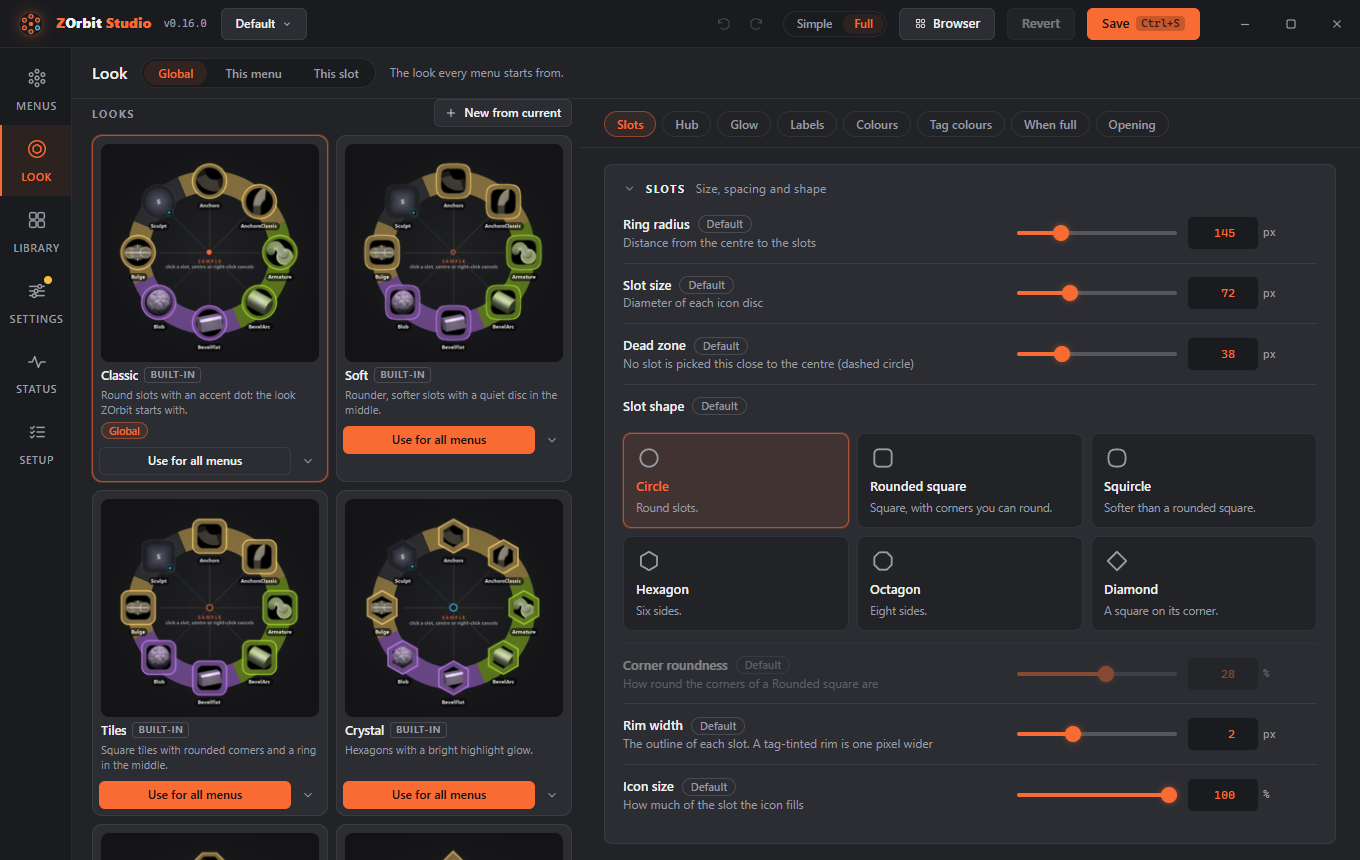
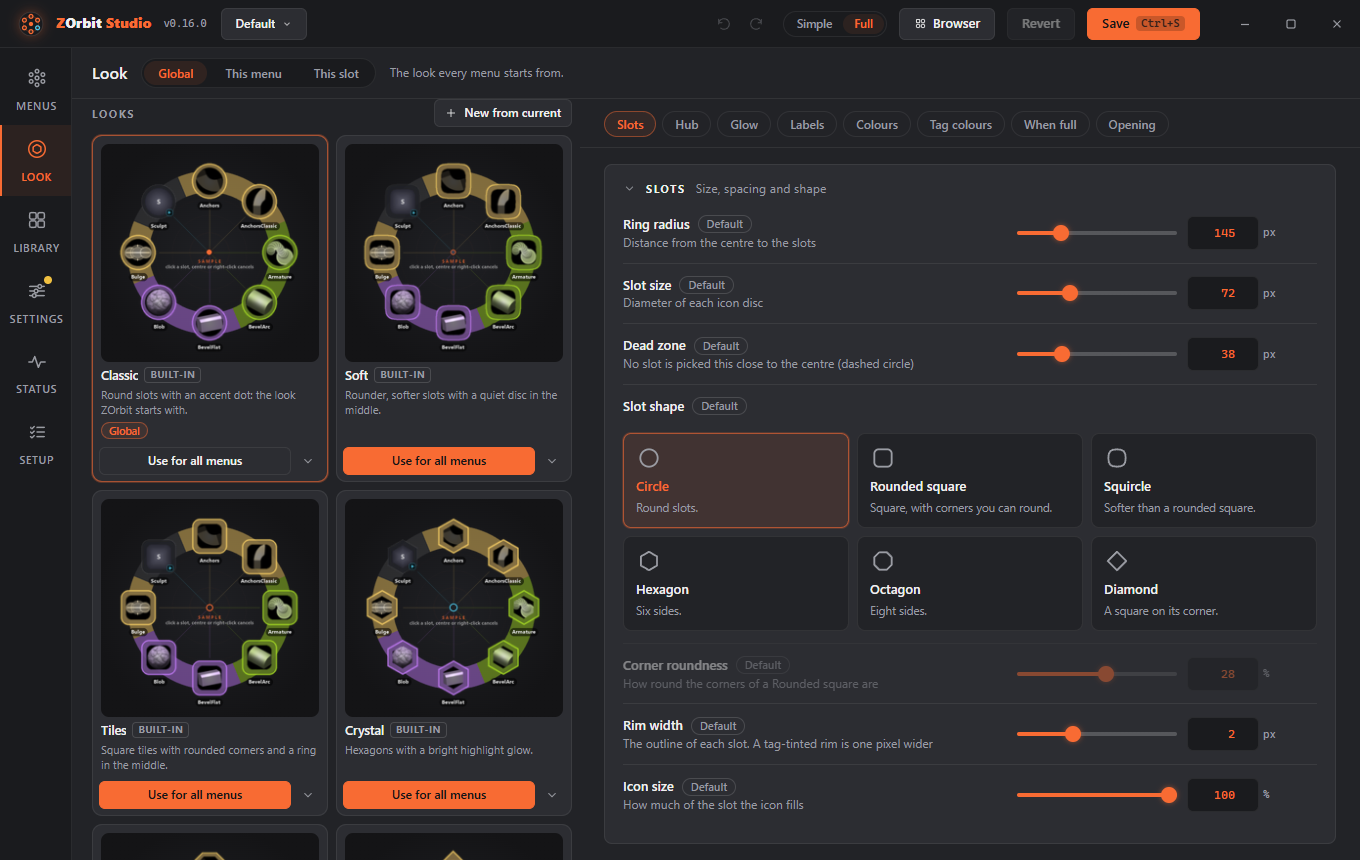
Studio: line up the buttons under the looks (#122) (#123)
The foot of each look card now sits at the bottom of the card, so the
buttons share a baseline in each row. The Look gallery picture is retaken.

Fixes #122

Changed region(s): [[0.2471, 0.4837, 0.4015, 0.5744]]

diff --git a/zorbit/studio_ui/styles.css b/zorbit/studio_ui/styles.css
@@ -1136,7 +1136,7 @@ body.dragging .irow:hover { background: transparent; }
 .lk-chipline { display: flex; flex-wrap: wrap; gap: 4px; }
 .lk-mark { height: 17px; padding: 0 7px; border-radius: 99px; font: 600 10.5px/17px var(--font); border: 1px solid var(--line2); color: var(--sub); }
 .lk-mark.glob, .lk-mark.menu, .lk-mark.edit { color: var(--accent); border-color: color-mix(in srgb, var(--accent) 45%, transparent); background: var(--accent-wash); }
-.lk-foot { display: flex; align-items: center; gap: 4px; }
+.lk-foot { display: flex; align-items: center; gap: 4px; margin-top: auto; }
 .lk-foot .btn { flex: 1; min-width: 0; overflow: hidden; text-overflow: ellipsis; }
 .lk-checks { display: flex; flex-direction: column; gap: 10px; margin-top: 4px; }
 .lk-check { display: flex; align-items: flex-start; gap: 10px; font-size: 12.5px; color: var(--text); }

diff --git a/CHANGELOG.md b/CHANGELOG.md
@@ -25,6 +25,7 @@ All notable changes to this project are listed here. The format follows
 
 ### Fixed
 
+- Studio: the buttons under the looks on the Look screen (#122) line up along the bottom of each row of cards, whatever the blurb or the marks above them take up.
 - Studio: Simple mode no longer says the hint line was changed in Full mode, Press and Toggle items are everyday items, a look you pick for one menu is not a Full-mode setting, and problem links for a look, **Swallow hotkey** or **Fan out when opened from another menu** switch to Full mode first. The Look screen's note about settings changed in Full mode now covers a single menu, and a few hints in Simple no longer name controls only Full has.
 - In ZBrush 2022 to 2025, picking an alpha, material or texture whose file is named differently from its name in the menu no longer imports it again every time. The plugin now looks for the button ZBrush names after the file.
 - `app_stderr.log` no longer grows for ever: it moves to `app_stderr.log.old` at 200 KB. `radiald.log` is now kept under 1 MB while the app runs, not only when it starts.
